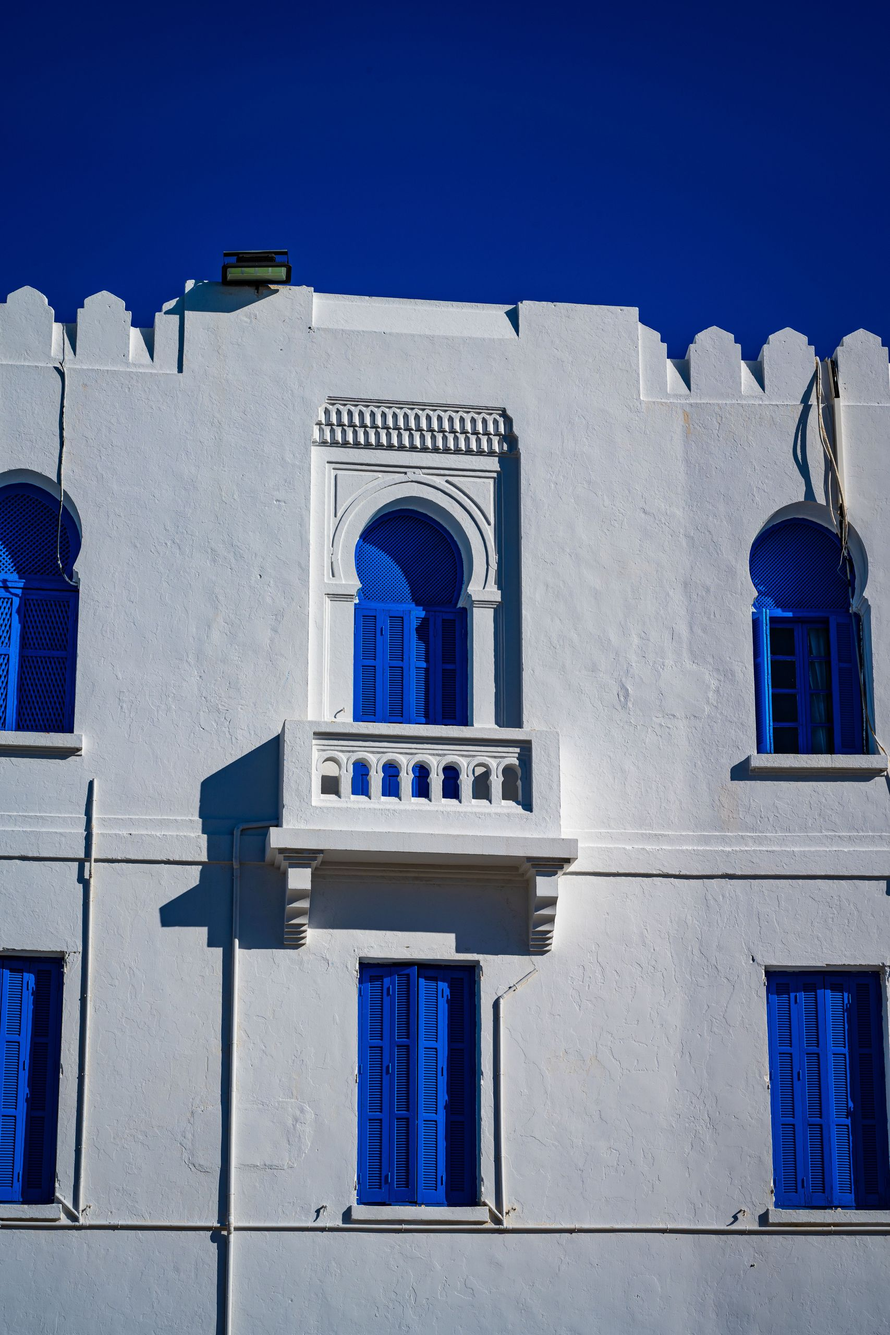
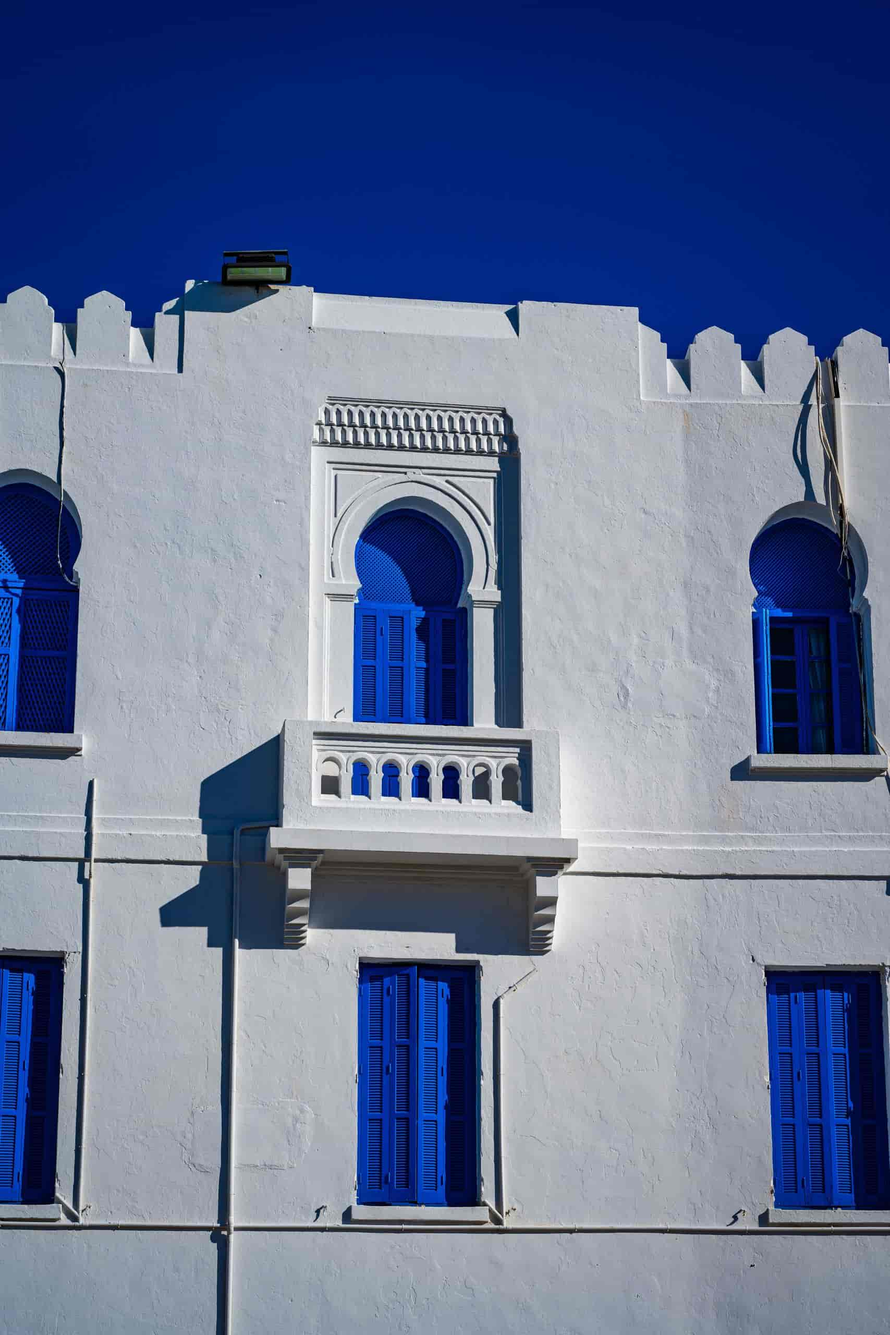
Optimise les images hero + active AVIF (D4)
Recompresse sejours-hero.jpg (770->209 Ko) et immobilier-hero.jpg
(584->129 Ko) via sharp/mozjpeg, résolution d'origine conservée (ces
photos sont aussi utilisées en plein écran par HomeHero.tsx, réduire
leur largeur aurait créé un agrandissement visible sur grand écran).
Ajoute avif à next.config.ts images.formats (WebP seul auparavant).

diff --git a/next.config.ts b/next.config.ts
@@ -29,6 +29,9 @@ const nextConfig: NextConfig = {
   images: {
     dangerouslyAllowSVG: true,
     contentSecurityPolicy: "default-src 'self'; script-src 'none'; sandbox;",
+    // AVIF essayé en premier (meilleure compression), repli WebP puis JPEG
+    // d'origine selon le support navigateur (négociation via Accept).
+    formats: ["image/avif", "image/webp"],
   },
   async headers() {
     return [{ source: "/(.*)", headers: securityHeaders }];

diff --git a/DESIGN_ROADMAP.md b/DESIGN_ROADMAP.md
@@ -34,7 +34,7 @@
 | D1 | Installer une lib d'animation légère (`framer-motion`/`motion`) | P0 | ✅ | `motion` (npm), via `LazyMotion`+`domAnimation` (~15 Ko) plutôt que le bundle complet — voir `src/components/ui/AnimatedGrid.tsx`. |
 | D2 | Fade + slide au montage des grilles de résultats (`stagger` sur `PropertyCard`) | P0 | ✅ | `AnimatedGrid` (`src/components/ui/AnimatedGrid.tsx`) branché sur les grilles de `src/app/sejours/page.tsx` et `src/app/immobilier/page.tsx`. `key` dérivée des ids affichés pour rejouer l'anim à chaque changement de page/filtre. `MotionConfig reducedMotion="user"` respecte `prefers-reduced-motion` (suppression du slide, le fade reste — comportement standard de la lib). |
 | D3 | Généraliser `Skeleton.tsx` à toutes les zones de données dynamiques (grille filtrée, dashboard revenus, messagerie) | P1 | ❌ | `src/components/ui/Skeleton.tsx` — actuellement 3 usages seulement. |
-| D4 | Optimiser les 2 images hero (compression + WebP/AVIF, cible <150 Ko chacune) | P1 | ❌ | `public/images/sejours-hero.jpg`, `public/images/immobilier-hero.jpg`, rendu via `src/components/layout/HomeHero.tsx`. |
+| D4 | Optimiser les 2 images hero (compression + WebP/AVIF, cible <150 Ko chacune) | P1 | ✅ | Sources recompressées (`sharp`, mozjpeg, résolution **d'origine conservée** — ces photos sont aussi utilisées en plein écran `sizes="100vw"` par `HomeHero.tsx`, réduire la largeur aurait créé un agrandissement visible sur grand écran/Retina) : `sejours-hero.jpg` 770→209 Ko, `immobilier-hero.jpg` 584→129 Ko, sans perte visible. Cible <150 Ko atteinte pour l'immobilier ; dépassée légèrement pour le séjour (ciel en dégradé, plus sensible à la compression) — arbitrage volontaire en faveur du zéro régression visuelle plutôt que le chiffre exact. `next.config.ts` : `images.formats` inclut désormais `avif` (avant : WebP seul) — négociation de format confirmée par `Content-Type` de retour de `/_next/image`. |
 | D5 | État de succès animé (check qui se dessine / micro-célébration) sur réservation confirmée, annonce publiée, avis publié | P1 | ❌ | Flux dans `src/actions/bookings.ts`, `src/actions/properties.ts`, `ReviewForm`. |
 | D6 | Retravailler/remplacer les SVG placeholders plats (dégradé, grain léger, ou gradient animé subtil) | P2 | ❌ | `public/placeholders/p-*.svg`. |
 
